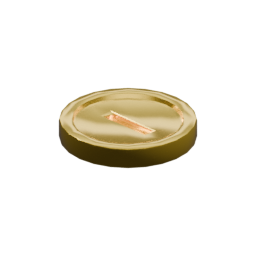
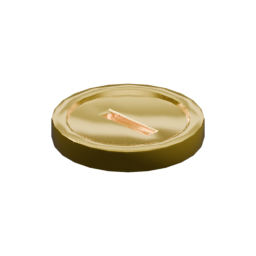
Grow the loose credits: tier one a little, tier two a lot
54 to 60 percent of frame for the single coin, 62 to 73 for the pair.

Both are deliberately off the even climb the rest of the chain follows.
The pair now sits past tier three and level with tier four, so the low
end no longer reads as a size ladder - noted in the code so the numbers
are not "corrected" back by someone reading them without the intent.

Changed region(s): [[0.1875, 0.3125, 0.8125, 0.6875]]

diff --git a/src/game/objects/itemSprites.ts b/src/game/objects/itemSprites.ts
@@ -47,7 +47,7 @@ export function itemSpriteKey(typeId: string, tier: number): string {
  * A version in the query string makes the URL new, so every client refetches
  * once and then caches again normally.
  */
-export const ITEM_ART_VERSION = 6;
+export const ITEM_ART_VERSION = 7;
 
 /** Where the renderer writes it, relative to `public/`. */
 export function itemSpritePath(typeId: string, tier: number): string {

diff --git a/tools/blender/render_items.py b/tools/blender/render_items.py
@@ -1562,7 +1562,14 @@ def build_credits():
     # each tier's own proportions are untouched. Even is the point: the rise
     # has to be visible at a glance but never leave the low tiers looking
     # like specks on their tiles.
-    for tier, factor in ((1, 1.45), (3, 1.48), (4, 1.17),
+    #
+    # Tiers one and two are deliberately OFF that climb, by request: the
+    # single coin a touch bigger, at about 60 percent of frame, and the pair
+    # a lot bigger at about 74. That puts the pair past tier three and level
+    # with tier four, so the low end of this chain no longer reads as a size
+    # ladder. Recorded here so it is not "corrected" back by someone reading
+    # the numbers rather than the intent.
+    for tier, factor in ((1, 1.61), (2, 1.19), (3, 1.48), (4, 1.17),
                          (5, 0.92), (6, 1.16)):
         out[tier].scale = (factor, factor, factor)
     return out
